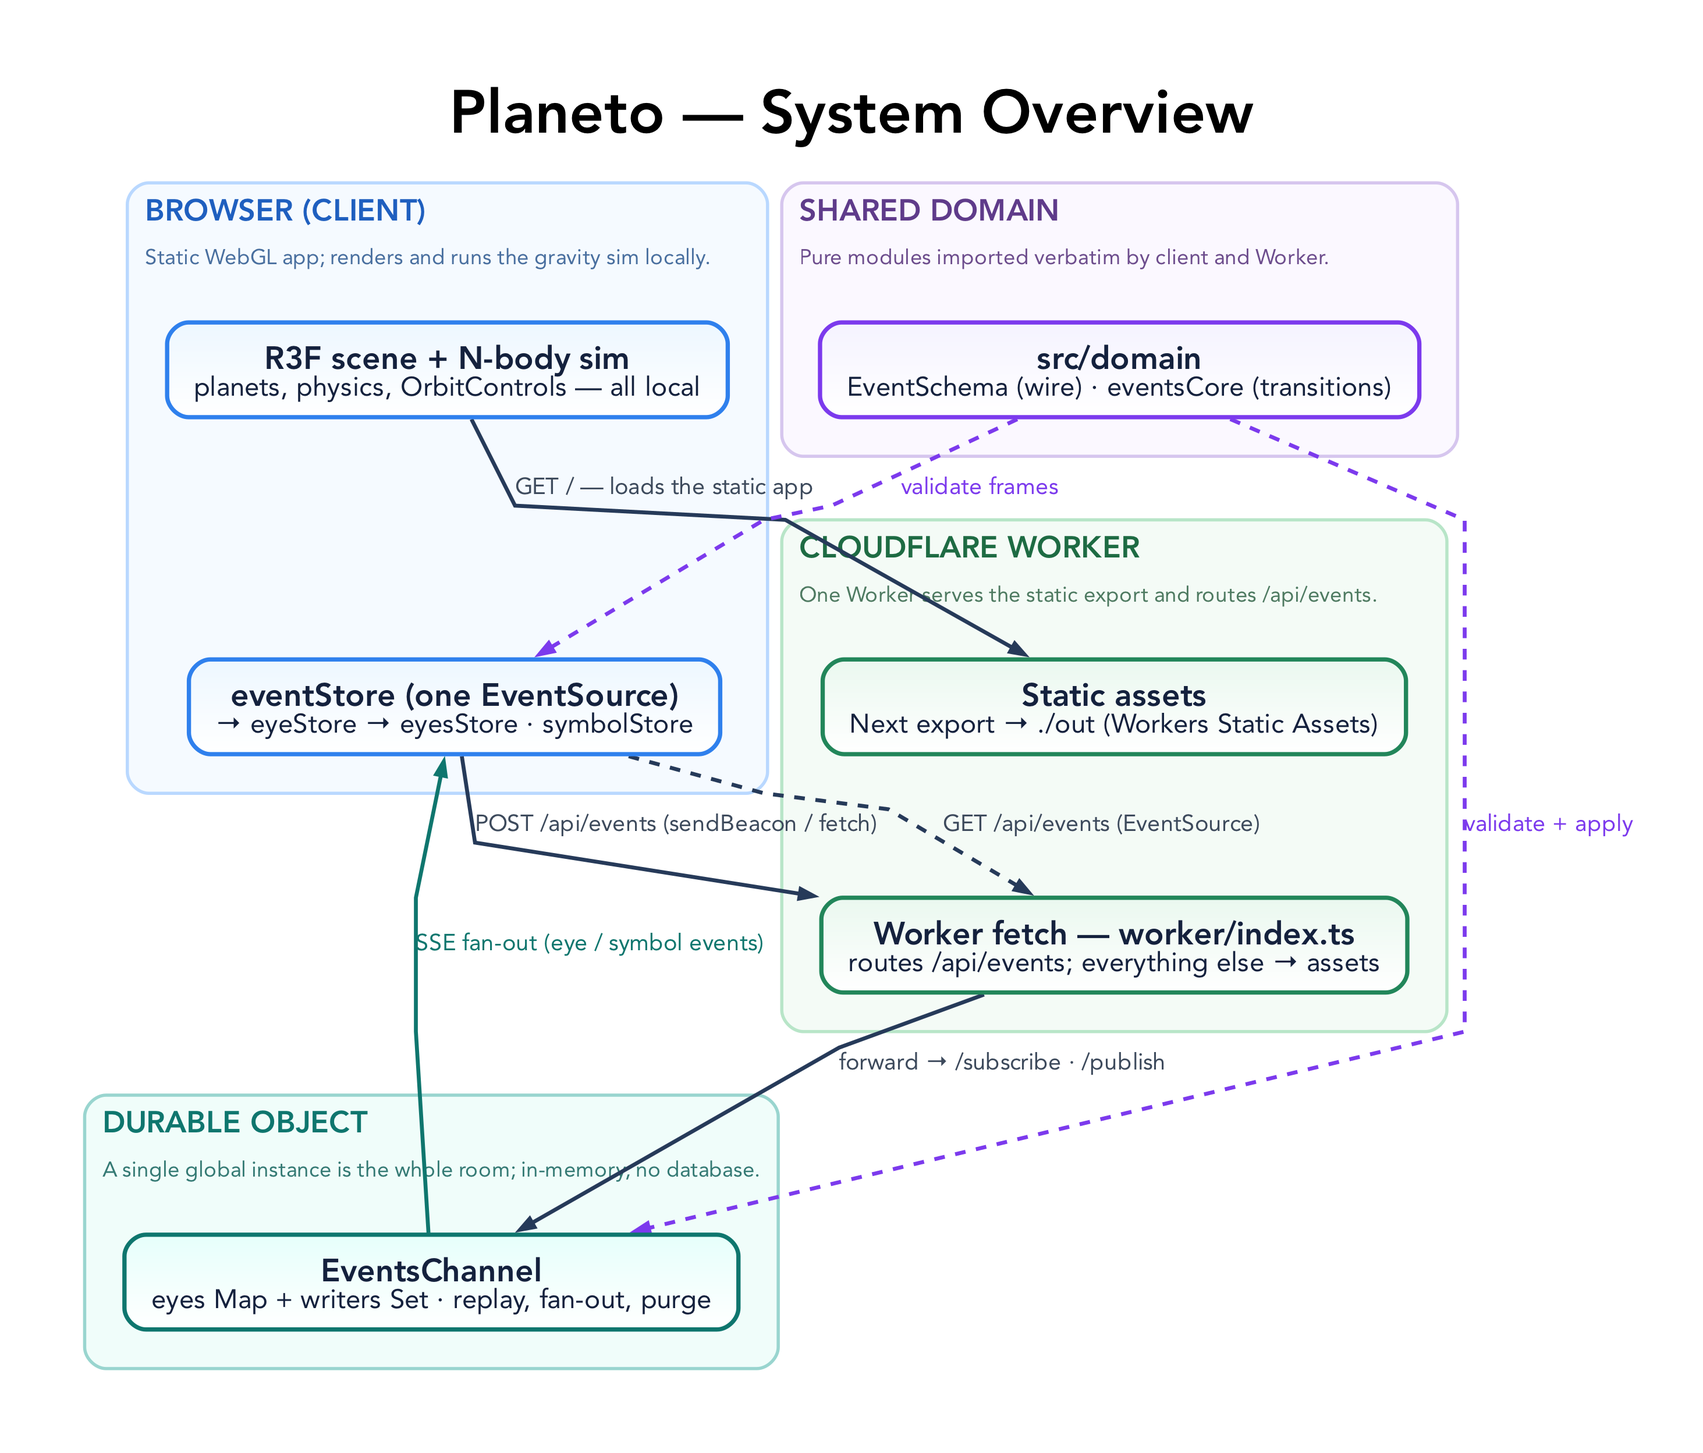
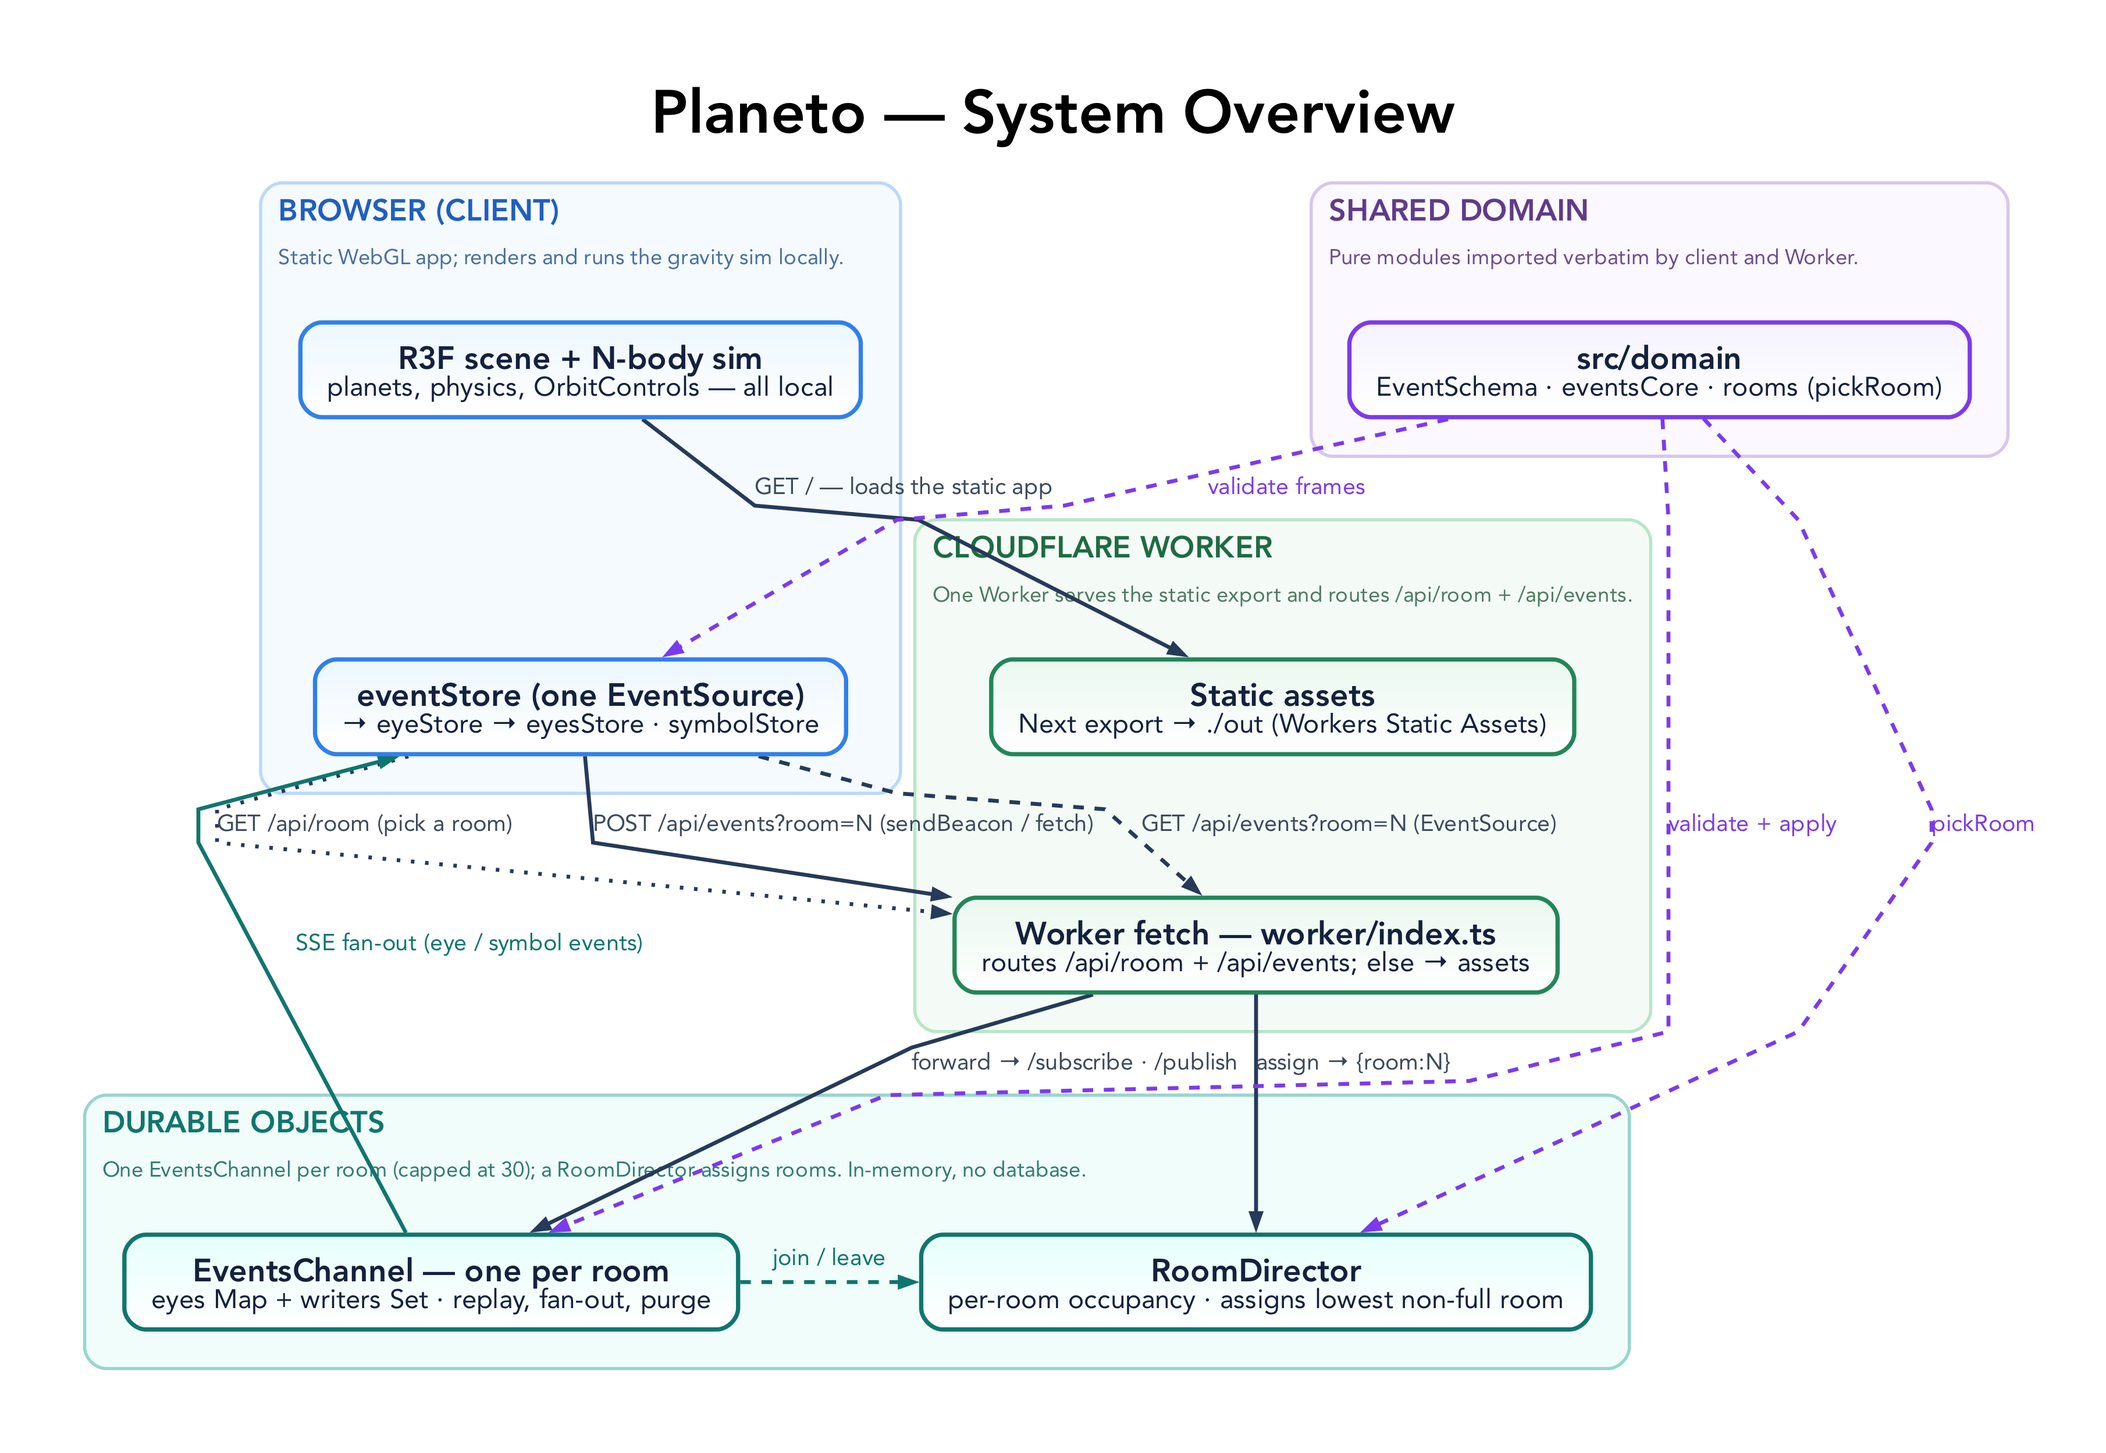
docs: align docs + system diagram with room sharding
Bring AGENTS.md, README.md, CLAUDE.md, and the system-overview diagram
into agreement with the per-room model: GET /api/room (the RoomDirector
picks the lowest non-full room) then /api/events?room=N to that room's
EventsChannel (capped at 30, overflowing into fresh rooms under load).
Mark sharding shipped in the backlog.

diff --git a/AGENTS.md b/AGENTS.md
@@ -11,10 +11,10 @@ Planeto is a browser-based 3D toy: a procedurally generated cluster of drifting 
 - **Physics:** Rapier (`@react-three/rapier`) rigid bodies, but gravity is **custom** — an N-body loop in `usePhysicsSimulation`, not Rapier's built-in gravity.
 - **State:** Zustand (+ the `zustand/middleware/immer` middleware), five small stores.
 - **Domain:** Zod guards the wire boundary (`EventSchema` in `event.ts`); client-side shapes (`planet.ts`, `eye.ts`) are plain types.
-- **Multiplayer:** Server-Sent Events for server→client, HTTP POST for client→server, both at `/api/events`. The server is a Cloudflare **Durable Object** (`EventsChannel`) holding the shared state in memory — no database, no persistence.
-- **Deployed:** Cloudflare Workers — a single Worker serves the static export and hosts the Durable Object, at `planeto.tre.systems`.
+- **Multiplayer:** Server-Sent Events for server→client, HTTP POST for client→server, over `/api/events?room=N`. The server is a set of Cloudflare **Durable Objects** (an `EventsChannel` per room, plus a `RoomDirector` that assigns rooms) holding the shared state in memory — no database, no persistence.
+- **Deployed:** Cloudflare Workers — a single Worker serves the static export and hosts the Durable Objects, at `planeto.tre.systems`.
 
-Size: ~2k LOC, ~30 source files, 5 Zustand stores, 1 Durable Object.
+Size: ~2k LOC, ~30 source files, 5 Zustand stores, 3 Durable Objects.
 
 ## Workflow
 
@@ -57,7 +57,7 @@ Anything touching multiplayer needs the Worker + DO, so use `npm run preview` (o
 
 - _Outbound — eye position:_ `useEyePositionReporting` beacons the camera position (rounded) to `POST /api/events` as an `eyeUpdate`, only when it changed, or unconditionally every 20 s, via `navigator.sendBeacon`.
 - _Outbound — symbol:_ a key press (`SymbolHandler` in `page.tsx`) or Canvas double-click sets `symbolStore.lastInput`; `useInputThrottle` POSTs it as a `symbol` event, throttled to one per 100 ms.
-- _Server (Worker + DO):_ the Worker forwards `/api/events` to a single global `EventsChannel` Durable Object (`idFromName("global")`), which validates every POST against `EventSchema`. `eyeUpdate` → store (server-stamped `t`) **and** fan out; `symbol` → fan out only. `GET` opens an SSE stream, registers the writer, replays the current eyes, and keepalive-pings every 20 s. Stale eyes (> 30 s) are purged lazily on each publish/subscribe. The Worker per-IP rate-limits both GET and POST (120 / 60 s, via a `RateLimiter` DO), and the room caps concurrent SSE connections at 200.
+- _Server (Worker + DO):_ a client first calls `GET /api/room`, answered by the `RoomDirector` DO with the lowest non-full room; it then talks to `/api/events?room=N`. The Worker forwards that to the `EventsChannel` DO for room N (`idFromName("room-N")`), which validates every POST against `EventSchema`. `eyeUpdate` → store (server-stamped `t`) **and** fan out; `symbol` → fan out only. `GET` opens an SSE stream, registers the writer (reporting join/leave to the director), replays the current eyes, and keepalive-pings every 20 s. Stale eyes (> 30 s) are purged lazily on each publish/subscribe. Each room caps at 30 connections (overflow goes to a new room); the Worker per-IP rate-limits the `/api` endpoints (120 / 60 s, via a `RateLimiter` DO).
 - _Inbound:_ `eventStore` owns one `EventSource`, re-validates each frame, and fans out to listeners: `eyeUpdate` → `eyeStore` (raw) → `eyesStore` (animated) → `Eyes.tsx`; `symbol` → `symbolStore.remoteKeys` → fading text in `Eye.tsx`.
 
 The publish → fan-out round-trip:
@@ -68,8 +68,8 @@ sequenceDiagram
     participant W as Worker
     participant DO as EventsChannel DO
     participant B as Client B
-    Note over A,B: both hold an open EventSource on GET /api/events
-    A->>W: POST /api/events (eyeUpdate, via sendBeacon)
+    Note over A,B: both in the same room, holding an open EventSource on GET /api/events?room=N
+    A->>W: POST /api/events?room=N (eyeUpdate, via sendBeacon)
     W->>DO: forward → /publish
     DO->>DO: EventSchema.safeParse · store eye (server-stamped t)
     DO-->>A: SSE data:{eyeUpdate}
@@ -77,20 +77,22 @@ sequenceDiagram
     Note over B: eventStore → eyeStore → eyesStore → Eyes.tsx renders the eye
 ```
 
-**Wire contract** (`/api/events`, one endpoint):
+**Wire contract.** A client gets a room, then connects to it (`?room` defaults to 0; the POST body is a `SymbolEvent` or `EyeUpdate`, validated against `EventSchema`):
 
-| Method | Body                                                             | Response                                                                                       |
-| ------ | ---------------------------------------------------------------- | ---------------------------------------------------------------------------------------------- |
-| `POST` | a `SymbolEvent` or `EyeUpdate` (validated against `EventSchema`) | `200 {ok:true}`, or `400 {error, …}` on a malformed payload                                    |
-| `GET`  | —                                                                | SSE (`text/event-stream`); each frame is `data:{event}\n\n` — current eyes replayed, then live |
+| Method | Path                 | Response                                                                      |
+| ------ | -------------------- | ----------------------------------------------------------------------------- |
+| `GET`  | `/api/room`          | `{room:N}` - the lowest non-full room to join                                 |
+| `GET`  | `/api/events?room=N` | SSE (`text/event-stream`); `data:{event}\n\n` frames - current eyes then live |
+| `POST` | `/api/events?room=N` | `200 {ok:true}`, `400 {error, ...}` on a bad payload, `429` when rate-limited |
 
 ```
 worker/
-  index.ts            # Worker entry: routes /api/events to the EventsChannel DO (per-IP rate limit on GET+POST via the RateLimiter DO); serves everything else from static assets (env.ASSETS); re-exports the DO classes
-  eventsChannel.ts    # EventsChannel Durable Object — SSE plumbing: subscribe (replay + keepalive, capped at 200 concurrent connections), publish (validate + fan out). The pure transitions live in src/domain/eventsCore.ts
-  rateLimiter.ts      # RateLimiter Durable Object: per-IP fixed-window counter (120 / 60 s) gating /api/events
+  index.ts            # Worker entry: GET /api/room -> RoomDirector; /api/events?room=N -> that room's EventsChannel; per-IP rate limit on the /api endpoints (RateLimiter DO); serves everything else from static assets (env.ASSETS); re-exports the DO classes
+  eventsChannel.ts    # EventsChannel Durable Object - one per room (idFromName "room-N"): SSE plumbing - subscribe (replay + keepalive, capped at 30 connections, reports join/leave to the director), publish (validate + fan out). Pure transitions in src/domain/eventsCore.ts
+  roomDirector.ts     # RoomDirector Durable Object: tracks per-room occupancy and hands out the lowest non-full room (pure logic in src/domain/rooms.ts)
+  rateLimiter.ts      # RateLimiter Durable Object: per-IP fixed-window counter (120 / 60 s) gating the /api endpoints
   tsconfig.json       # worker-only tsconfig (@cloudflare/workers-types, no DOM lib)
-wrangler.toml         # Worker config: [assets] ./out, run_worker_first /api/events, EVENTS + RATE_LIMITER DO bindings + migrations, planeto.tre.systems
+wrangler.toml         # Worker config: [assets] ./out, run_worker_first /api/events + /api/room, EVENTS + RATE_LIMITER + ROOM_DIRECTOR DO bindings + migrations, planeto.tre.systems
 src/
   app/
     layout.tsx          # root layout; fonts; metadata (manifest link)
@@ -113,7 +115,7 @@ src/
     usePlanetData.ts             # builds the sun + 19 planets, then their bump/colour textures progressively (yields between maps so load never freezes)
     index.ts                     # barrel (the 5 reporting/input hooks; not useEyes)
   stores/                        # Zustand, all wrapped in zustand/middleware/immer
-    eventStore.ts                # owns the single EventSource; connect/disconnect; symbol/eye listener registries; validates inbound frames
+    eventStore.ts                # owns the EventSource; acquires a room (GET /api/room) then connects with ?room (re-acquiring if that room was full); symbol/eye listener registries; validates inbound frames
     eyeStore.ts                  # raw remote eye positions { p, t } per id
     eyesStore.ts                 # animated "managed" eyes: appear/visible/disappear lifecycle, per-eye material, lerp + fade
     physicsStore.ts              # isGravityDisabled flag + disableGravityTemporarily(ms)
@@ -121,6 +123,7 @@ src/
   domain/                        # the wire protocol (Zod, shared with the Worker) + plain domain types
     event.ts                     # Vec3 / SymbolEvent / EyeUpdate / EventSchema (discriminated union) — the validation gate; EYE_STALE_MS
     eventsCore.ts                # pure DO state transitions (applyEvent, pruneStaleEyes, encodeEventFrame) — unit-tested, shared with the Worker
+    rooms.ts                     # pure room-assignment logic (pickRoom, ROOM_CAP = 30, MAX_ROOMS); unit-tested, used by the RoomDirector
     eye.ts                       # EyeState / EyeStatus + scale & fade constants (plain client-side types)
     planet.ts                    # Planet / Moon / AtmosphereLayer (plain client-side types)
     symbol.ts                    # SymbolInput + the SYMBOLS glyph list
@@ -155,7 +158,7 @@ The codebase is assembled from a small set of repeated patterns. Reach for the m
 
 **Realtime server**
 
-- **One global Durable Object is "the room"** — `idFromName("global")`, in-memory `eyes` map + `writers` set, evicted when idle.
+- **One Durable Object per room** — each `EventsChannel` (`idFromName("room-N")`) is a room: an in-memory `eyes` map + `writers` set, capped at 30 and evicted when idle. A single `RoomDirector` DO tracks occupancy and hands out the lowest non-full room, so the usually-small crowd fills room 0 first and overflows to fresh rooms only under load.
 - **Replay on subscribe.** A new SSE subscriber is immediately sent every current eye, then live updates.
 - **Lazy purge.** Stale eyes are dropped on access (each subscribe/publish), not by a background timer.
 
@@ -187,7 +190,7 @@ No known deviations — store type-naming and shared constants are uniform. Trac
 
 ## Gotchas
 
-- **Multiplayer state is one global Durable Object** (`idFromName("global")`) — a single shared room, in memory, evicted when nobody is connected. It is the only stateful piece; everything else is static. If the DO is evicted/restarted, eyes are lost — acceptable, since each client re-reports its position at least every 20 s.
+- **Multiplayer state lives in the room Durable Objects** - one `EventsChannel` per room (`idFromName("room-N")`) plus the single `RoomDirector` that assigns rooms. All in memory, evicted when idle. These are the only stateful pieces; everything else is static. If a room DO is evicted/restarted its eyes are lost, which is fine: each client re-reports its position at least every 20 s.
 - **`npm run dev` has no `/api/events`.** The realtime endpoint only exists under the Worker (`wrangler dev` / `npm run preview`). Use that for anything touching multiplayer.
 - **The DO and the client share `src/domain/event.ts`.** Change the wire schema in one place; both pick it up. The Worker imports it relatively (`../src/domain/event`).
 - **No service worker.** `public/manifest.json` + icons make the app installable, but there is no offline support — see Backlog.
@@ -199,10 +202,9 @@ Nothing here blocks day to day. The top group is what to do before sharing this 
 
 ### Before going wide (cost and scale first)
 
-Shipped: social share preview (Open Graph/Twitter, `og-image.png`); mobile/low-end adaptive quality (shadow map 8192 -> 2048 and no Bloom on coarse-pointer/low-core/low-memory devices) + WebGL context-loss recovery + a touch "Send a symbol" button; finite/bounded eye-coordinate validation. Cookieless analytics and Sentry error tracking are wired but dormant until tokens are set (see below).
+Shipped: room sharding (30 connections per room, overflow into fresh rooms via a `RoomDirector`); social share preview (Open Graph/Twitter, `og-image.png`); mobile/low-end adaptive quality (shadow map 8192 -> 2048 and no Bloom on coarse-pointer/low-core/low-memory devices) + WebGL context-loss recovery + a touch "Send a symbol" button; finite/bounded eye-coordinate validation. Cookieless analytics and Sentry error tracking are wired but dormant until tokens are set (see below).
 
-- **Shard the room** _(next - biggest change, touches the multiplayer core)._ One global Durable Object fans out O(N) per event, so a viral spike concentrates cost on one DO and hits the 200-connection cap. Cap each room at 30 and overflow into a new one when it fills, using sequential fill (room 0 until full, then room 1, ...) so the usually-small crowd stays together (a hash-into-fixed-rooms scheme would scatter a handful of users so nobody sees anyone). Needs a director DO handing out the lowest non-full room, room-scoped `/api/events` (a room id the client carries on its GET and POSTs), and leave handling. No cost exposure in waiting: the rate limit + 200 cap already bound worst-case load; this is the scale-cheaply enhancement.
-- **Cost backstop: billing alert** _(needs Rob: Cloudflare dashboard)._ Cloudflare has no hard spend cap, so set a usage/billing notification (account -> Notifications). The per-IP rate limit (120 / 60 s on GET+POST) and the 200-connection cap already bound worst-case load, so this is the safety net.
+- **Cost backstop: billing alert** _(needs Rob: Cloudflare dashboard)._ Cloudflare has no hard spend cap, so set a usage/billing notification (account -> Notifications). The per-IP rate limit (120 / 60 s) and the per-room 30-connection cap already bound worst-case load, so this is the safety net.
 - **Activate analytics + error tracking** _(needs Rob: tokens)._ The code ships dormant; set `NEXT_PUBLIC_CF_BEACON_TOKEN` (from a Cloudflare Web Analytics site) and `NEXT_PUBLIC_SENTRY_DSN` (from a Sentry project) as build-time env vars to turn them on. Optionally add Sentry source-map upload in CI for readable stack traces.
 
 ### Later / nice-to-have

diff --git a/README.md b/README.md
@@ -54,7 +54,7 @@ Common scripts (full list in [AGENTS.md](AGENTS.md)):
 
 ![Planeto system overview](docs/diagrams/system-overview.png)
 
-A static WebGL client served by a single Cloudflare Worker, which routes `/api/events` to one global `EventsChannel` Durable Object — the multiplayer "room". The client renders the cluster and runs gravity locally; multiplayer is a thin presence layer (Server-Sent Events down, HTTP POST up).
+A static WebGL client served by a single Cloudflare Worker. Clients ask `GET /api/room` for the lowest non-full room (assigned by a `RoomDirector` Durable Object), then connect to `/api/events?room=N`, which the Worker routes to that room's `EventsChannel` DO - a multiplayer "room" capped at 30 connections, overflowing into fresh rooms under load. The client renders the cluster and runs gravity locally; multiplayer is a thin presence layer (Server-Sent Events down, HTTP POST up).
 
 **[AGENTS.md](AGENTS.md) is the full guide** — architecture, code map, patterns, conventions, deployment, and the `/api/events` wire contract. Diagram sources live in [docs/diagrams/](docs/diagrams/README.md).
 

diff --git a/CLAUDE.md b/CLAUDE.md
@@ -6,4 +6,4 @@ Quick reminders:
 
 - Work on `main` and commit directly. Stage only files relevant to the change.
 - Run `npm run verify` before committing; `npm run check` for the full gate (adds Playwright e2e). CI runs `verify` + `test:run`, then deploys to Cloudflare.
-- Multiplayer state lives in a single global **Durable Object** (`EventsChannel`); the app is otherwise a static export. `/api/events` only runs under `wrangler dev` (`npm run preview`), not `next dev`. Read the Gotchas in AGENTS.md before touching the Worker, the DO, or deploy config.
+- Multiplayer state lives in **Durable Objects** (one `EventsChannel` per room, capped at 30, plus a `RoomDirector` that assigns rooms); the app is otherwise a static export. `/api/events` only runs under `wrangler dev` (`npm run preview`), not `next dev`. Read the Gotchas in AGENTS.md before touching the Worker, the DOs, or deploy config.

diff --git a/docs/diagrams/README.md b/docs/diagrams/README.md
@@ -13,9 +13,9 @@ Graphviz / DOT sources plus rendered PNGs. The `.dot` files are the source of tr
 Colour coding by domain:
 
 - **Blue** — the browser client (static WebGL app + the realtime stores).
-- **Green** — Cloudflare Worker code (static assets + the `/api/events` router).
-- **Teal** — the Durable Object (the in-memory room / state).
-- **Purple** — shared pure domain modules (`EventSchema`, `eventsCore`) imported by both sides.
+- **Green** — Cloudflare Worker code (static assets + the `/api` router).
+- **Teal** — the Durable Objects (a per-room `EventsChannel` + the `RoomDirector`).
+- **Purple** — shared pure domain modules (`EventSchema`, `eventsCore`, `rooms`) imported by both sides.
 - Diamonds — decisions; dashed edges — optional / "used by" relationships.
 
 Font: Avenir. Rendered at 220 DPI with `dot -Tpng:cairo`.
